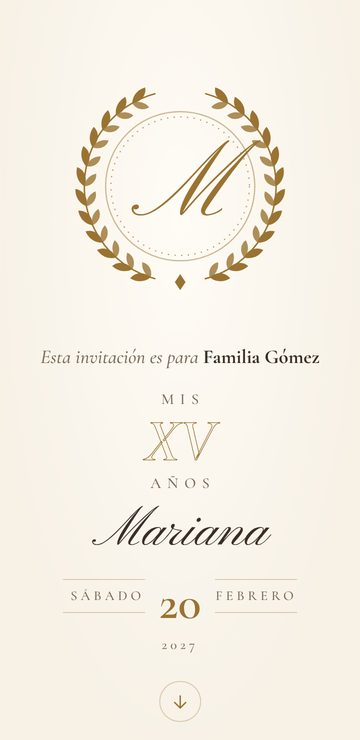
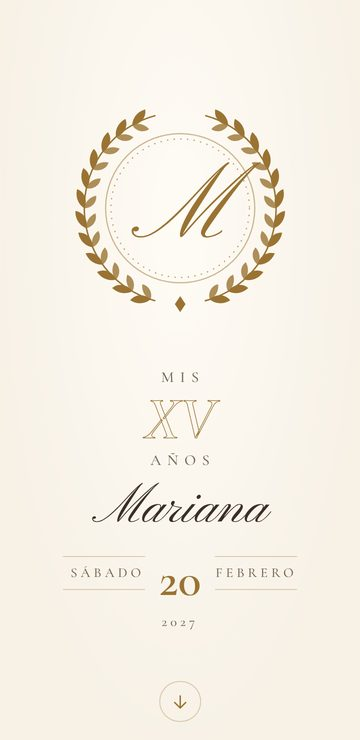
Basic sin saludo por familia: el invitado escribe su nombre al confirmar; capturas nuevas; script sin pestaña Enlaces
Claude-Session: https://claude.ai/code/session_01Cq5njwYtw8EDaUCQVUgQG6

Changed region(s): [[0.2139, 0.1243, 0.7944, 0.4351], [0.1222, 0.4662, 0.8861, 0.8081], [0.4278, 0.777, 0.55, 0.8703]]

diff --git a/web/landing/config.js b/web/landing/config.js
@@ -85,16 +85,16 @@ window.SITE = {
     /* tipo: "basic", "xv" o "boda". "imagen" = captura real de la demo. */
     lista: [
       { tipo: "basic", etiqueta: "KC Basic · Moderna", titulo: "Noche dorada",
-        enlace: "https://basic.kcdigitalmagic.com/xv-ana-2611/?para=Familia%20G%C3%B3mez&cupos=4",
+        enlace: "https://basic.kcdigitalmagic.com/xv-ana-2611/",
         imagen: "https://basic.kcdigitalmagic.com/capturas/xv-ana-2611.jpg", descripcionImagen: "Invitación de XV años en azul noche y dorado con foto de portada" },
       { tipo: "basic", etiqueta: "KC Basic · Moderna", titulo: "Rosa neón",
-        enlace: "https://basic.kcdigitalmagic.com/xv-valentina-fotos-2701/?para=Familia%20G%C3%B3mez&cupos=4",
+        enlace: "https://basic.kcdigitalmagic.com/xv-valentina-fotos-2701/",
         imagen: "https://basic.kcdigitalmagic.com/capturas/xv-valentina-fotos-2701.jpg", descripcionImagen: "Invitación de XV años en negro y rosa neón con foto de portada" },
       { tipo: "basic", etiqueta: "KC Basic · Clásica", titulo: "Cielo y plata",
-        enlace: "https://basic.kcdigitalmagic.com/xv-isabella-2612/?para=Familia%20G%C3%B3mez&cupos=4",
+        enlace: "https://basic.kcdigitalmagic.com/xv-isabella-2612/",
         imagen: "https://basic.kcdigitalmagic.com/capturas/xv-isabella-2612.jpg", descripcionImagen: "Invitación clásica de XV años en azul cielo, con sobre y sello de lacre" },
       { tipo: "basic", etiqueta: "KC Basic · Clásica · sin fotos", titulo: "Marfil y dorado",
-        enlace: "https://basic.kcdigitalmagic.com/xv-mariana-2702/?para=Familia%20G%C3%B3mez",
+        enlace: "https://basic.kcdigitalmagic.com/xv-mariana-2702/",
         imagen: "https://basic.kcdigitalmagic.com/capturas/xv-mariana-2702.jpg", descripcionImagen: "Invitación clásica de XV años en marfil y dorado, con monograma y sin fotos" },
       { tipo: "xv", pronto: true, etiqueta: "Premium · XV años", titulo: "Lila y oro viejo",
         enlace: "https://kcdigitalmagic.com/demos/lila-y-oro-viejo?utm_source=landing&utm_medium=web&utm_campaign=demos&utm_content=xv_lila",
@@ -199,7 +199,7 @@ window.SITE = {
           us: { simbolo: "US$", monto: "22", moneda: "USD" }
         },
         pago: "Pago único al comprar.",
-        incluye: ["4 diseños, con o sin fotos", "Confirmación por WhatsApp", "Enlace con el nombre de cada familia", "Mapas y agregar al calendario", "1 ronda de ajustes + 2 cambios", "Solo XV años, por ahora"],
+        incluye: ["4 diseños, con o sin fotos", "Confirmación por WhatsApp", "Un enlace para compartir con todos", "Mapas y agregar al calendario", "1 ronda de ajustes + 2 cambios", "Solo XV años, por ahora"],
         boton: "Comprar KC Basic", accion: "comprar" },
       { id: "premium", nombre: "KC Premium", destacado: false, sello: "A tu medida",
         descripcion: "Karol diseña tu invitación contigo, con tablero de invitados en vivo y todas las secciones.",
@@ -285,7 +285,7 @@ window.SITE = {
       { p: "¿Cuánto tiempo tarda?", r: "KC Basic: 24 a 48 horas hábiles desde que completas el formulario. KC Premium: lo acordamos contigo según tu fecha." },
       { p: "¿Puedo hacer cambios después de enviarla?", r: "Sí. Tu invitación vive en la web: si cambia la hora, el lugar o algún detalle, la actualizamos y tus invitados ven la versión nueva sin que tengas que reenviarla." },
       { p: "¿Mis familiares mayores podrán abrirla?", r: "Sí. Se abre con un toque desde WhatsApp, sin descargar nada ni crear cuentas. Confirmar asistencia toma unos segundos, con botones grandes y letra clara." },
-      { p: "¿Cómo digo “sin niños”?", r: "Con los pases por familia. Cada invitación muestra cuántos lugares tiene esa familia y no permite confirmar más. Lo dices con delicadeza, sin explicarlo uno por uno. Si quieres, añadimos una frase amable sobre el evento solo para adultos." },
+      { p: "¿Cómo digo “sin niños”?", r: "En KC Basic agregamos un aviso amable de evento solo para adultos. En KC Premium lo resolvemos con los pases por familia. Cada invitación muestra cuántos lugares tiene esa familia y no permite confirmar más. Lo dices con delicadeza, sin explicarlo uno por uno. Si quieres, añadimos una frase amable sobre el evento solo para adultos." },
       { p: "¿Cómo pago?", r: "KC Basic se paga en línea aquí mismo, en tu moneda. En KC Premium empiezas con el 40% y pagas el 60% cuando la invitación te encante; te compartimos los medios de pago de tu país por WhatsApp." },
       { p: "¿Atienden en mi país?", r: "Sí. Acompañamos familias en Colombia, México, España y el resto de Europa, y familias hispanas en EE. UU. Todo se coordina por WhatsApp, en tu horario." },
       { p: "¿Qué tengo que enviarles?", r: "Nombres, fecha, hora y lugar, las fotos que quieras incluir, tu idea de estilo y la lista de invitados. Te enviamos una guía corta para que no se te escape nada." }

diff --git a/plantillas/_comun/invitacion.js b/plantillas/_comun/invitacion.js
@@ -8,18 +8,9 @@
   var $ = function (s, c) { return (c || document).querySelector(s); };
   var $$ = function (s, c) { return Array.prototype.slice.call((c || document).querySelectorAll(s)); };
 
-  /* ---------- Invitado personalizado: ?para=Familia%20Pérez&cupos=4 ---------- */
-  var params = new URLSearchParams(location.search);
-  var para = (params.get("para") || datos.para_demo || "").trim().slice(0, 60);
-  var cupos = parseInt(params.get("cupos") || datos.cupos_demo, 10);
-  if (!(cupos >= 1 && cupos <= 20)) cupos = 0;
-
-  if (para) {
-    $$("[data-para]").forEach(function (el) {
-      el.querySelector("strong").textContent = para;
-      el.hidden = false;
-    });
-  }
+  /* KC Basic: un solo enlace para todos. El invitado escribe su nombre al confirmar. */
+  var para = "";
+  var cupos = 0;
 
   /* ---------- Apertura ---------- */
   var telon = $("#telon");
@@ -36,7 +27,7 @@
     var fondo = $(".portada-fondo");
     var xv = $(".xv text");
     var letras = $$(".nombre .letra");
-    var tarde = $$(".fecha-portada, .para:not([hidden])");
+    var tarde = $$(".fecha-portada");
     var pendientes = [];
 
     pendientes.push(fondo.animate(
@@ -186,12 +177,18 @@
   if (salida) {
     var numero = String(rsvp.whatsapp || "").replace(/\D/g, "");
     var enlaceWhatsApp = function (texto) { return "https://wa.me/" + numero + "?text=" + encodeURIComponent(texto); };
-    var plural = /^(familia|los|las)\b/i.test(para) || / y /i.test(para);
-    var quien = para ? (plural ? "Hola, somos " : "Hola, soy ") + para + ". " : "Hola. ";
+    var campoNombre = $("#rsvp-nombre");
+    var quien = "Hola. ", plural = false;
+    var leerNombre = function () {
+      var v = (campoNombre && campoNombre.value || "").trim().slice(0, 60);
+      plural = /^(familia|los|las)\b/i.test(v) || / y /i.test(v);
+      quien = v ? (plural ? "Hola, somos " : "Hola, soy ") + v + ". " : "Hola. ";
+    };
     var maximo = cupos || 10;
     var n = cupos || 1;
     var menos = $("#cupos-menos"), mas = $("#cupos-mas");
     var pintar = function () {
+      leerNombre();
       salida.value = n;
       salida.textContent = n;
       menos.disabled = n <= 1;
@@ -209,8 +206,12 @@
     }
     pintar();
 
-    $("#confirmar-no").href = enlaceWhatsApp(quien + (plural ? "No podremos" : "No podré") +
-      " asistir a los XV años de " + datos.nombre + ". ¡Gracias por la invitación!");
+    var pintarNo = function () {
+      $("#confirmar-no").href = enlaceWhatsApp(quien + (plural ? "No podremos" : "No podré") +
+        " asistir a los XV años de " + datos.nombre + ". ¡Gracias por la invitación!");
+    };
+    pintarNo();
+    if (campoNombre) campoNombre.addEventListener("input", function () { pintar(); pintarNo(); });
   }
 
   /* ---------- Barra flotante ---------- */

diff --git a/plantillas/xv-clasica-elegante/estilo.css b/plantillas/xv-clasica-elegante/estilo.css
@@ -377,3 +377,13 @@ button { font: inherit; color: inherit; }
 @media (min-width: 48rem) {
   .momento-acciones { grid-template-columns: 1fr 1fr; }
 }
+
+/* Nombre del invitado al confirmar */
+.rsvp-nombre { display: grid; gap: .35rem; margin: 0 auto 1.5rem; max-width: 18rem; }
+.rsvp-nombre span { font-size: .8rem; letter-spacing: .25em; text-transform: uppercase; color: var(--tinta-suave); }
+.rsvp-nombre input {
+  font: inherit; font-size: 1.3rem; text-align: center; color: var(--tinta); background: transparent;
+  border: 0; border-bottom: 1px solid var(--acento); border-radius: 0; padding: .4rem 0;
+}
+.rsvp-nombre input:focus { outline: none; border-bottom-width: 2px; }
+.rsvp-nombre input::placeholder { color: var(--tinta-suave); opacity: .55; font-style: italic; }

diff --git a/plantillas/xv-moderna-poster/estilo.css b/plantillas/xv-moderna-poster/estilo.css
@@ -364,3 +364,14 @@ button { font: inherit; color: inherit; }
   .xv { right: 2vw; }
   .galeria figure { flex-basis: 46%; }
 }
+
+/* Nombre del invitado al confirmar */
+.rsvp-nombre { display: grid; gap: .4rem; margin: 0 0 1.5rem; }
+.rsvp-nombre span { font-size: .95rem; color: var(--tinta-suave); }
+.rsvp-nombre input {
+  font: inherit; color: var(--tinta); background: transparent;
+  border: 0; border-bottom: 1.5px solid var(--linea); border-radius: 0;
+  padding: .55rem 0; font-size: 1.15rem;
+}
+.rsvp-nombre input:focus { outline: none; border-bottom-color: var(--acento); }
+.rsvp-nombre input::placeholder { color: var(--tinta-suave); opacity: .6; }

diff --git a/docs/web/producto-basic-xv.md b/docs/web/producto-basic-xv.md
@@ -29,7 +29,6 @@ Tu invitación web de XV años, lista en 24 a 48 horas. Eliges el diseño y el c
 - Apertura animada, cuenta regresiva, hasta 2 lugares con mapa y "agregar al calendario".
 - Código de vestimenta, regalos, reglas de la noche y hashtag.
 - Confirmación de asistencia a tu WhatsApp o a tu propio formulario.
-- Enlaces personalizados por familia, con su nombre y sus cupos.
 - 1 ronda de ajustes antes de publicar y 2 cambios de datos después.
 - Publicada hasta 5 días después de tu evento.
 
